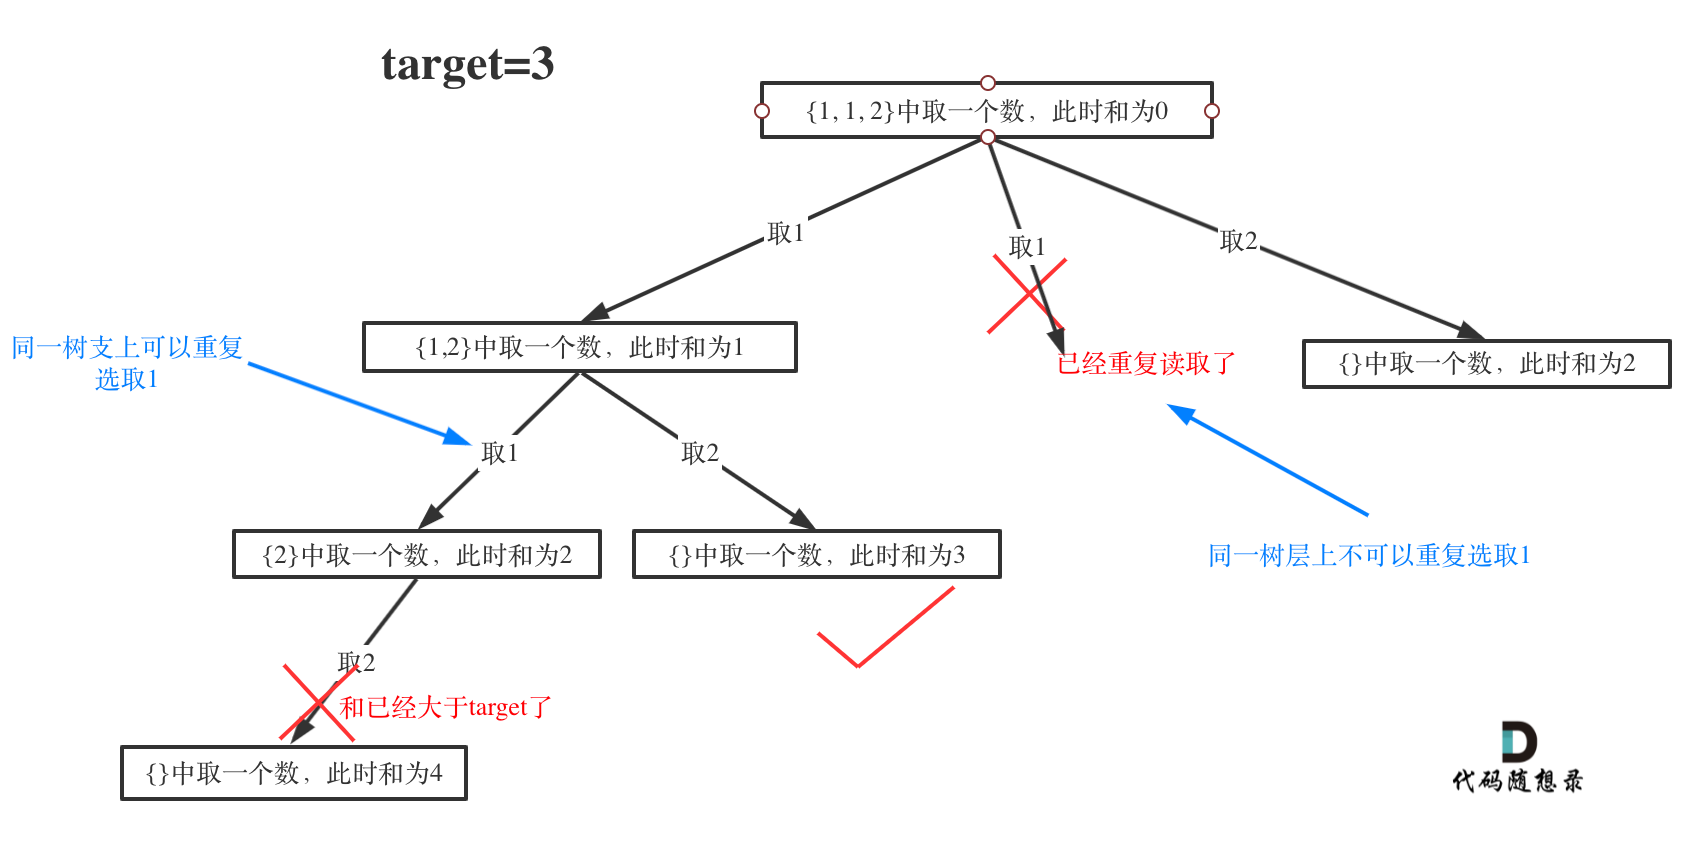
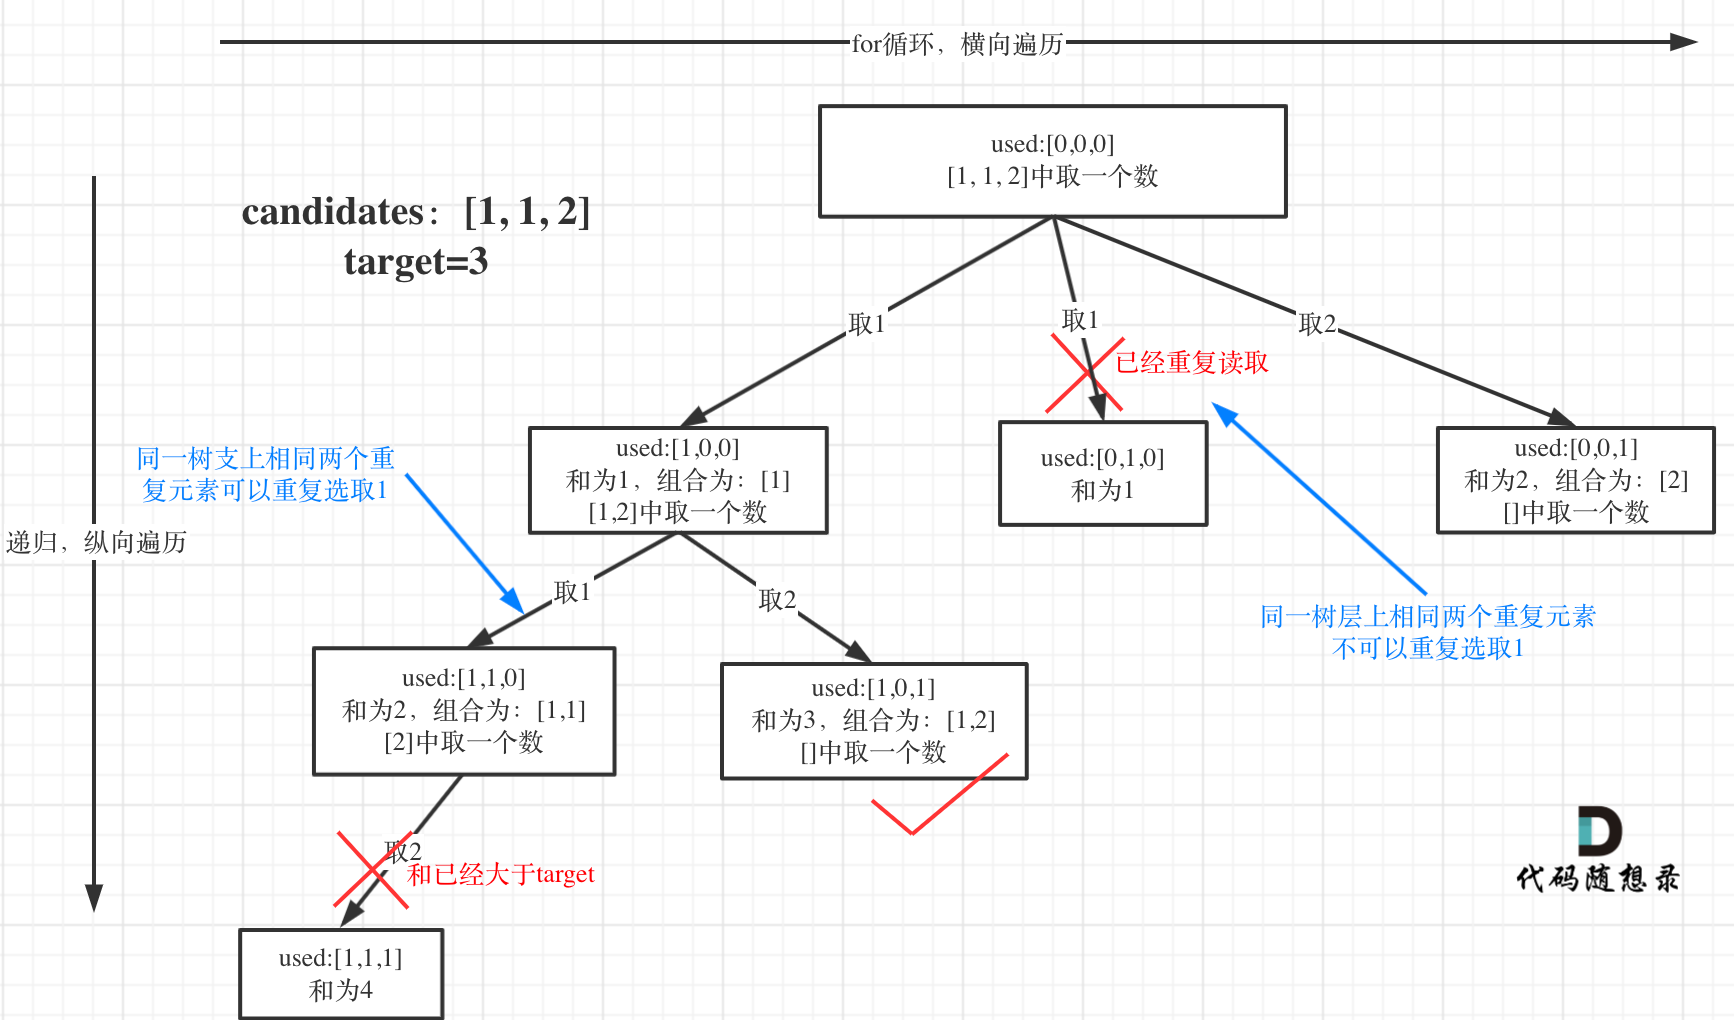
Update

diff --git a/problems/0040.组合总和II.md b/problems/0040.组合总和II.md
@@ -1,56 +1,151 @@
-# 第40题. 组合总和
+> 这篇可以说是全网把组合问题如何去重，讲的最清晰的了！
+
+
+# 40.组合总和II
+
+题目链接：https://leetcode-cn.com/problems/combination-sum-ii/
+
 给定一个数组 candidates 和一个目标数 target ，找出 candidates 中所有可以使数字和为 target 的组合。
 
 candidates 中的每个数字在每个组合中只能使用一次。
 
-说明：
+说明：   
+所有数字（包括目标数）都是正整数。   
+解集不能包含重复的组合。   
 
-所有数字（包括目标数）都是正整数。
-解集不能包含重复的组合。 
+示例 1:   
+输入: candidates = [10,1,2,7,6,1,5], target = 8,   
+所求解集为:   
+[   
+  [1, 7],   
+  [1, 2, 5],   
+  [2, 6],   
+  [1, 1, 6]    
+]   
+  
+示例 2:      
+输入: candidates = [2,5,2,1,2], target = 5,    
+所求解集为:   
+[    
+  [1,2,2],   
+  [5]   
+]   
 
-示例 1:
+# 思路
 
-输入: candidates = [10,1,2,7,6,1,5], target = 8,
-所求解集为:
-[
-  [1, 7],
-  [1, 2, 5],
-  [2, 6],
-  [1, 1, 6]
-]
+这道题目和[39.组合总和](https://mp.weixin.qq.com/s/FLg8G6EjVcxBjwCbzpACPw)如下区别：
 
-示例 2:
+1. 本题candidates 中的每个数字在每个组合中只能使用一次。
+2. 本题数组candidates的元素是有重复的，而[39.组合总和](https://mp.weixin.qq.com/s/FLg8G6EjVcxBjwCbzpACPw)是无重复元素的数组candidates 
 
-输入: candidates = [2,5,2,1,2], target = 5,
-所求解集为:
-[
-  [1,2,2],
-  [5]
-]
+最后本题和[39.组合总和](https://mp.weixin.qq.com/s/FLg8G6EjVcxBjwCbzpACPw)要求一样，解集不能包含重复的组合。 
 
-# 思想 
+**本题的难点在于区别2中：集合（数组candidates）有重复元素，但还不能有重复的组合**。
 
-这道题目和[0039.组合总和](https://github.com/youngyangyang04/leetcode/blob/master/problems/0039.组合总和.md) 区别就是要去重。
+一些同学可能想了：我把所有组合求出来，再用set或者map去重，这么做很容易超时！
 
-很多同学在去重上想不明白，其实很多题解也没有讲清楚，反正代码是能过的，感觉是那么回事，稀里糊涂的先把题目过了。
+所以要在搜索的过程中就去掉重复组合。 
+
+很多同学在去重的问题上想不明白，其实很多题解也没有讲清楚，反正代码是能过的，感觉是那么回事，稀里糊涂的先把题目过了。
 
 这个去重为什么很难理解呢，**所谓去重，其实就是使用过的元素不能重复选取。** 这么一说好像很简单！
 
-
 都知道组合问题可以抽象为树形结构，那么“使用过”在这个树形结构上是有两个维度的，一个维度是同一树枝上使用过，一个维度是同一树层上使用过。**没有理解这两个层面上的“使用过” 是造成大家没有彻底理解去重的根本原因。**
 
-所以要明确我们要去重的是同一树层上的“使用过”。
+那么问题来了，我们是要同一树层上使用过，还是统一树枝上使用过呢？
+
+回看一下题目，元素在同一个组合内是可以重复的，怎么重复都没事，但两个组合不能相同。
+
+**所以我们要去重的是同一树层上的“使用过”，同一树枝上的都是一个组合里的元素，不用去重**。
 
 为了理解去重我们来举一个例子，candidates = [1, 1, 2], target = 3，（方便起见candidates已经排序了）
 
-选择过程如图所示：
+选择过程树形结构如图所示：
 
 <img src='../pics/40.组合总和II.png' width=600> </img></div>
 
+可以看到图中，每个节点相对于 [39.组合总和](https://mp.weixin.qq.com/s/FLg8G6EjVcxBjwCbzpACPw)我多加了used数组，这个used数组下面会重点介绍。
 
-理解了“同一树枝使用过”和“同一树层使用过” 之后，我们在拉看如下代码实现，关键地方已经注释，大家应该就理解了
+## 回溯三部曲 
 
-# C++代码 
+* **递归函数参数** 
+
+与[39.组合总和](https://mp.weixin.qq.com/s/FLg8G6EjVcxBjwCbzpACPw)套路相同，此题还需要加一个bool型数组used，用来记录同一树枝上的元素是否使用过。 
+
+这个集合去重的重任就是used来完成的。
+
+代码如下：
+
+```
+vector<vector<int>> result; // 存放组合集合
+vector<int> path;           // 符合条件的组合
+void backtracking(vector<int>& candidates, int target, int sum, int startIndex, vector<bool>& used) {
+```
+
+* **递归终止条件**
+
+与[39.组合总和](https://mp.weixin.qq.com/s/FLg8G6EjVcxBjwCbzpACPw)相同，终止条件为 `sum > target` 和 `sum == target`。
+
+代码如下：
+
+```
+if (sum > target) { // 这个条件其实可以省略 
+    return;
+}
+if (sum == target) {
+    result.push_back(path);
+    return;
+}
+```
+
+`sum > target`  这个条件其实可以省略，因为和在递归单层遍历的时候，会有剪枝的操作，下面会介绍到。
+
+* **单层搜索的逻辑**
+
+这里与[39.组合总和](https://mp.weixin.qq.com/s/FLg8G6EjVcxBjwCbzpACPw)最大的不同就是要去重了。
+
+前面我们提到：要去重的是“同一树层上的使用过”，如果判断同一树层上元素（相同的元素）是否使用过了呢。
+
+**如果`candidates[i] == candidates[i - 1]` 并且 `used[i - 1] == false`，就说明：前一个树枝，使用了candidates[i - 1]，也就是说同一树层使用过candidates[i - 1]**。
+
+此时for循环里就应该做continue的操作。
+
+这块比较抽象，如图：
+
+<img src='../pics/40.组合总和II1.png' width=600> </img></div>
+
+我在图中将used的变化用橘黄色标注上，可以看出在candidates[i] == candidates[i - 1]相同的情况下：
+
+* used[i - 1] == true，说明同一树支candidates[i - 1]使用过 
+* used[i - 1] == false，说明同一树层candidates[i - 1]使用过
+
+**这块去重的逻辑很抽象，网上搜的题解基本没有能讲清楚的，如果大家之前思考过这个问题或者刷过这道题目，看到这里一定会感觉通透了很多！**
+
+那么单层搜索的逻辑代码如下：
+
+```
+for (int i = startIndex; i < candidates.size() && sum + candidates[i] <= target; i++) {
+    // used[i - 1] == true，说明同一树支candidates[i - 1]使用过
+    // used[i - 1] == false，说明同一树层candidates[i - 1]使用过
+    // 要对同一树层使用过的元素进行跳过
+    if (i > 0 && candidates[i] == candidates[i - 1] && used[i - 1] == false) {
+        continue;
+    }
+    sum += candidates[i];
+    path.push_back(candidates[i]);
+    used[i] = true;
+    backtracking(candidates, target, sum, i + 1, used); // 和39.组合总和的区别1：这里是i+1，每个数字在每个组合中只能使用一次
+    used[i] = false;
+    sum -= candidates[i];
+    path.pop_back();
+}
+```
+
+**注意sum + candidates[i] <= target为剪枝操作，在[39.组合总和](https://mp.weixin.qq.com/s/FLg8G6EjVcxBjwCbzpACPw)有讲解过！**
+
+## C++代码
+
+回溯三部曲分析完了，整体C++代码如下：
 
 ```
 class Solution {
@@ -58,28 +153,21 @@ private:
     vector<vector<int>> result;
     vector<int> path;
     void backtracking(vector<int>& candidates, int target, int sum, int startIndex, vector<bool>& used) {
-        if (sum > target) {
-            return;
-        }
         if (sum == target) {
             result.push_back(path);
             return;
         }
-
-        // 每个组合中只能使用一次 所以用 startindex
-        // 给定一个数组 candidates 默认有重复项，解集不能包含重复的组合。  所以使用if这一套
-        for (int i = startIndex; i < candidates.size(); i++) {
-            // 这里理解used[i - 1]非常重要 
-            // used[i - 1] == true，说明同一树支candidates[i - 1]使用过 
+        for (int i = startIndex; i < candidates.size() && sum + candidates[i] <= target; i++) {
+            // used[i - 1] == true，说明同一树支candidates[i - 1]使用过
             // used[i - 1] == false，说明同一树层candidates[i - 1]使用过
-            // 而我们要对同一树层使用过的元素进行跳过
-            if (i > 0 && candidates[i] == candidates[i - 1] && used[i - 1] == false) { 
+            // 要对同一树层使用过的元素进行跳过
+            if (i > 0 && candidates[i] == candidates[i - 1] && used[i - 1] == false) {
                 continue;
             }
             sum += candidates[i];
             path.push_back(candidates[i]);
             used[i] = true;
-            backtracking(candidates, target, sum, i + 1, used); // 关键点在这里，不用i+1了
+            backtracking(candidates, target, sum, i + 1, used); // 和39.组合总和的区别1，这里是i+1，每个数字在每个组合中只能使用一次
             used[i] = false;
             sum -= candidates[i];
             path.pop_back();
@@ -89,11 +177,25 @@ private:
 public:
     vector<vector<int>> combinationSum2(vector<int>& candidates, int target) {
         vector<bool> used(candidates.size(), false);
-        // 首先把给candidates排序，让其相同的元素都挨在一起。 
+        path.clear();
+        result.clear();
+        // 首先把给candidates排序，让其相同的元素都挨在一起。
         sort(candidates.begin(), candidates.end());
         backtracking(candidates, target, 0, 0, used);
         return result;
-
     }
 };
+
 ```
+
+# 总结
+
+本题同样是求组合总和，但就是因为其数组candidates有重复元素，而要求不能有重复的组合，所以相对于[39.组合总和](https://mp.weixin.qq.com/s/FLg8G6EjVcxBjwCbzpACPw)难度提升了不少。
+
+**关键是去重的逻辑，代码很简单，网上一搜一大把，但几乎没有能把这块代码含义讲明白的，基本都是给出代码，然后说这就是去重了，究竟怎么个去重法也是模棱两可**。
+
+所以Carl有必要把去重的这块彻彻底底的给大家讲清楚，**就连“树层去重”和“树枝去重”都是我自创的词汇，希望对大家理解有帮助！**
+
+**就酱，如果感觉「代码随想录」诚意满满，就帮Carl宣传一波吧，感谢啦！**
+
+

diff --git a/problems/0045.跳跃游戏II.md b/problems/0045.跳跃游戏II.md
@@ -1,0 +1,76 @@
+## 题目链接
+https://leetcode-cn.com/problems/jump-game-ii/
+
+## 思路 
+
+本题相对于[0055.跳跃游戏](https://github.com/youngyangyang04/leetcode/blob/master/problems/0053.最大子序和.md)还是难了不少。
+
+本题要计算最大步数，那么就要想清楚什么时候步数加一？ 
+
+**这里需要统计两个距离，当前可移动距离和下一步最远距离**。
+
+如果移动范围超过当前可移动距离，那么就必须再走一步来达到增加可移动距离的目的。
+
+如图：
+
+<img src='../pics/45.跳跃游戏II.png' width=600> </img></div>
+
+### 方法一
+
+这里还是有个特殊情况需要考虑，如果当前可移动距离的终点就是是集合终点，那么就不用增加步数了，因为不能再往后走了。
+
+详情可看代码（详细注释）
+
+```
+// 版本一
+class Solution {
+public:
+    int jump(vector<int>& nums) {
+        if (nums.size() == 1) return 0;
+        int curDistance = 0;    // 当前可移动距离
+        int ans = 0;            // 记录走的最大步数
+        int nextDistance = 0;   // 下一步最远距离
+        for (int i = 0; i < nums.size(); i++) {
+            nextDistance = max(nums[i] + i, nextDistance);
+            if (i == curDistance) { // 遇到当前可移动距离的终点
+                if (curDistance != nums.size() - 1) {   // 如果当前可移动距离的终点不是集合终点
+                    ans++;                      // 需要走下一步
+                    curDistance = nextDistance; // 更新下一步最远距离的范围
+                    if (nextDistance >= nums.size() - 1) break; // 下一步最远距离已经可以达到终点，结束循环
+                } else break;                           // 当前可移动距离的终点是集合终点
+            }
+        }
+        return ans;
+    }
+};
+```
+
+### 方法二
+
+依然是贪心，思路和方法一差不多，代码可以简洁一些。
+
+在方法一种，处理 当前可移动距离的终点 是不是集合终点 来判断ans是否要做相应的加一操作。
+
+其实可以用 for循环遍历的时候i < nums.size() - 1，这样就是默认最后一步，一定是可以到终点的。
+
+代码如下：
+
+```
+
+class Solution {
+public:
+    int jump(vector<int>& nums) {
+        int curDistance = 0;
+        int ans = 0;            // 记录走的最大步数，初始为0
+        int nextDistance = 0;   // 每走一步获得的跳跃范围
+        for (int i = 0; i < nums.size() - 1; i++) { // 注意这里是小于nums.size() - 1
+            nextDistance = max(nums[i] + i, nextDistance);
+            if (i == curDistance) { // 遇到本次跳跃范围的终点
+                curDistance = nextDistance;
+                ans++;
+            }
+        }
+        return ans;
+    }
+};
+```

diff --git a/README.md b/README.md
@@ -135,6 +135,8 @@
     * [回溯算法：组合问题再剪剪枝](https://mp.weixin.qq.com/s/Ri7spcJMUmph4c6XjPWXQA)
     * [回溯算法：求组合总和！](https://mp.weixin.qq.com/s/HX7WW6ixbFZJASkRnCTC3w)
     * [回溯算法：电话号码的字母组合](https://mp.weixin.qq.com/s/e2ua2cmkE_vpYjM3j6HY0A)
+    * [本周小结！（回溯算法系列一）](https://mp.weixin.qq.com/s/m2GnTJdkYhAamustbb6lmw)
+    * [回溯算法：求组合总和（二）](https://mp.weixin.qq.com/s/FLg8G6EjVcxBjwCbzpACPw)
 
 （持续更新中....）
 
@@ -303,6 +305,7 @@
 |[0039.组合总和](https://github.com/youngyangyang04/leetcode/blob/master/problems/0039.组合总和.md) |数组/回溯 |中等| **回溯**|
 |[0040.组合总和II](https://github.com/youngyangyang04/leetcode/blob/master/problems/0040.组合总和II.md) |数组/回溯 |中等| **回溯**|
 |[0042.接雨水](https://github.com/youngyangyang04/leetcode/blob/master/problems/0042.接雨水.md) |数组/栈/双指针 |困难| **双指针** **单调栈** **动态规划**|
+|[0045.跳跃游戏II](https://github.com/youngyangyang04/leetcode/blob/master/problems/0045.跳跃游戏II.md) |贪心 |困难| **贪心**|
 |[0046.全排列](https://github.com/youngyangyang04/leetcode/blob/master/problems/0046.全排列.md) |回溯|中等| **回溯**|
 |[0047.全排列II](https://github.com/youngyangyang04/leetcode/blob/master/problems/0047.全排列II.md) |回溯|中等| **回溯**|
 |[0051.N皇后](https://github.com/youngyangyang04/leetcode/blob/master/problems/0051.N皇后.md) |回溯|困难| **回溯**|

diff --git a/problems/0349.两个数组的交集.md b/problems/0349.两个数组的交集.md
@@ -22,9 +22,9 @@ https://leetcode-cn.com/problems/intersection-of-two-arrays/
 
 这道题用暴力的解法时间复杂度是O(n^2)，那来看看使用哈希法进一步优化。
 
-可以发现，貌似用数组做哈希表可以解决这道题目，把nums1的元素，映射到哈希数组的下表上，然后在遍历nums2的时候，判断是否出现过就可以了。
+那么用数组来做哈希表也是不错的选择，例如[242. 有效的字母异位词](https://mp.weixin.qq.com/s/vM6OszkM6L1Mx2Ralm9Dig)，[0383.赎金信](https://mp.weixin.qq.com/s/sYZIR4dFBrw_lr3eJJnteQ)
 
-但是要注意，**使用数据来做哈希的题目，都限制了数值的大小，例如[哈希表：可以拿数组当哈希表来用，但哈希值不要太大](https://mp.weixin.qq.com/s/vM6OszkM6L1Mx2Ralm9Dig)题目中只有小写字母，或者数值大小在[0- 10000] 之内等等。** 
+但是要注意，**使用数据来做哈希的题目，都限制了数值的大小。** 
 
 而这道题目没有限制数值的大小，就无法使用数组来做哈希表了。
 

diff --git a/problems/0039.组合总和.md b/problems/0039.组合总和.md
@@ -177,9 +177,6 @@ private:
     vector<vector<int>> result;
     vector<int> path;
     void backtracking(vector<int>& candidates, int target, int sum, int startIndex) {
-        if (sum > target) {
-            return;
-        }
         if (sum == target) {
             result.push_back(path);
             return;
